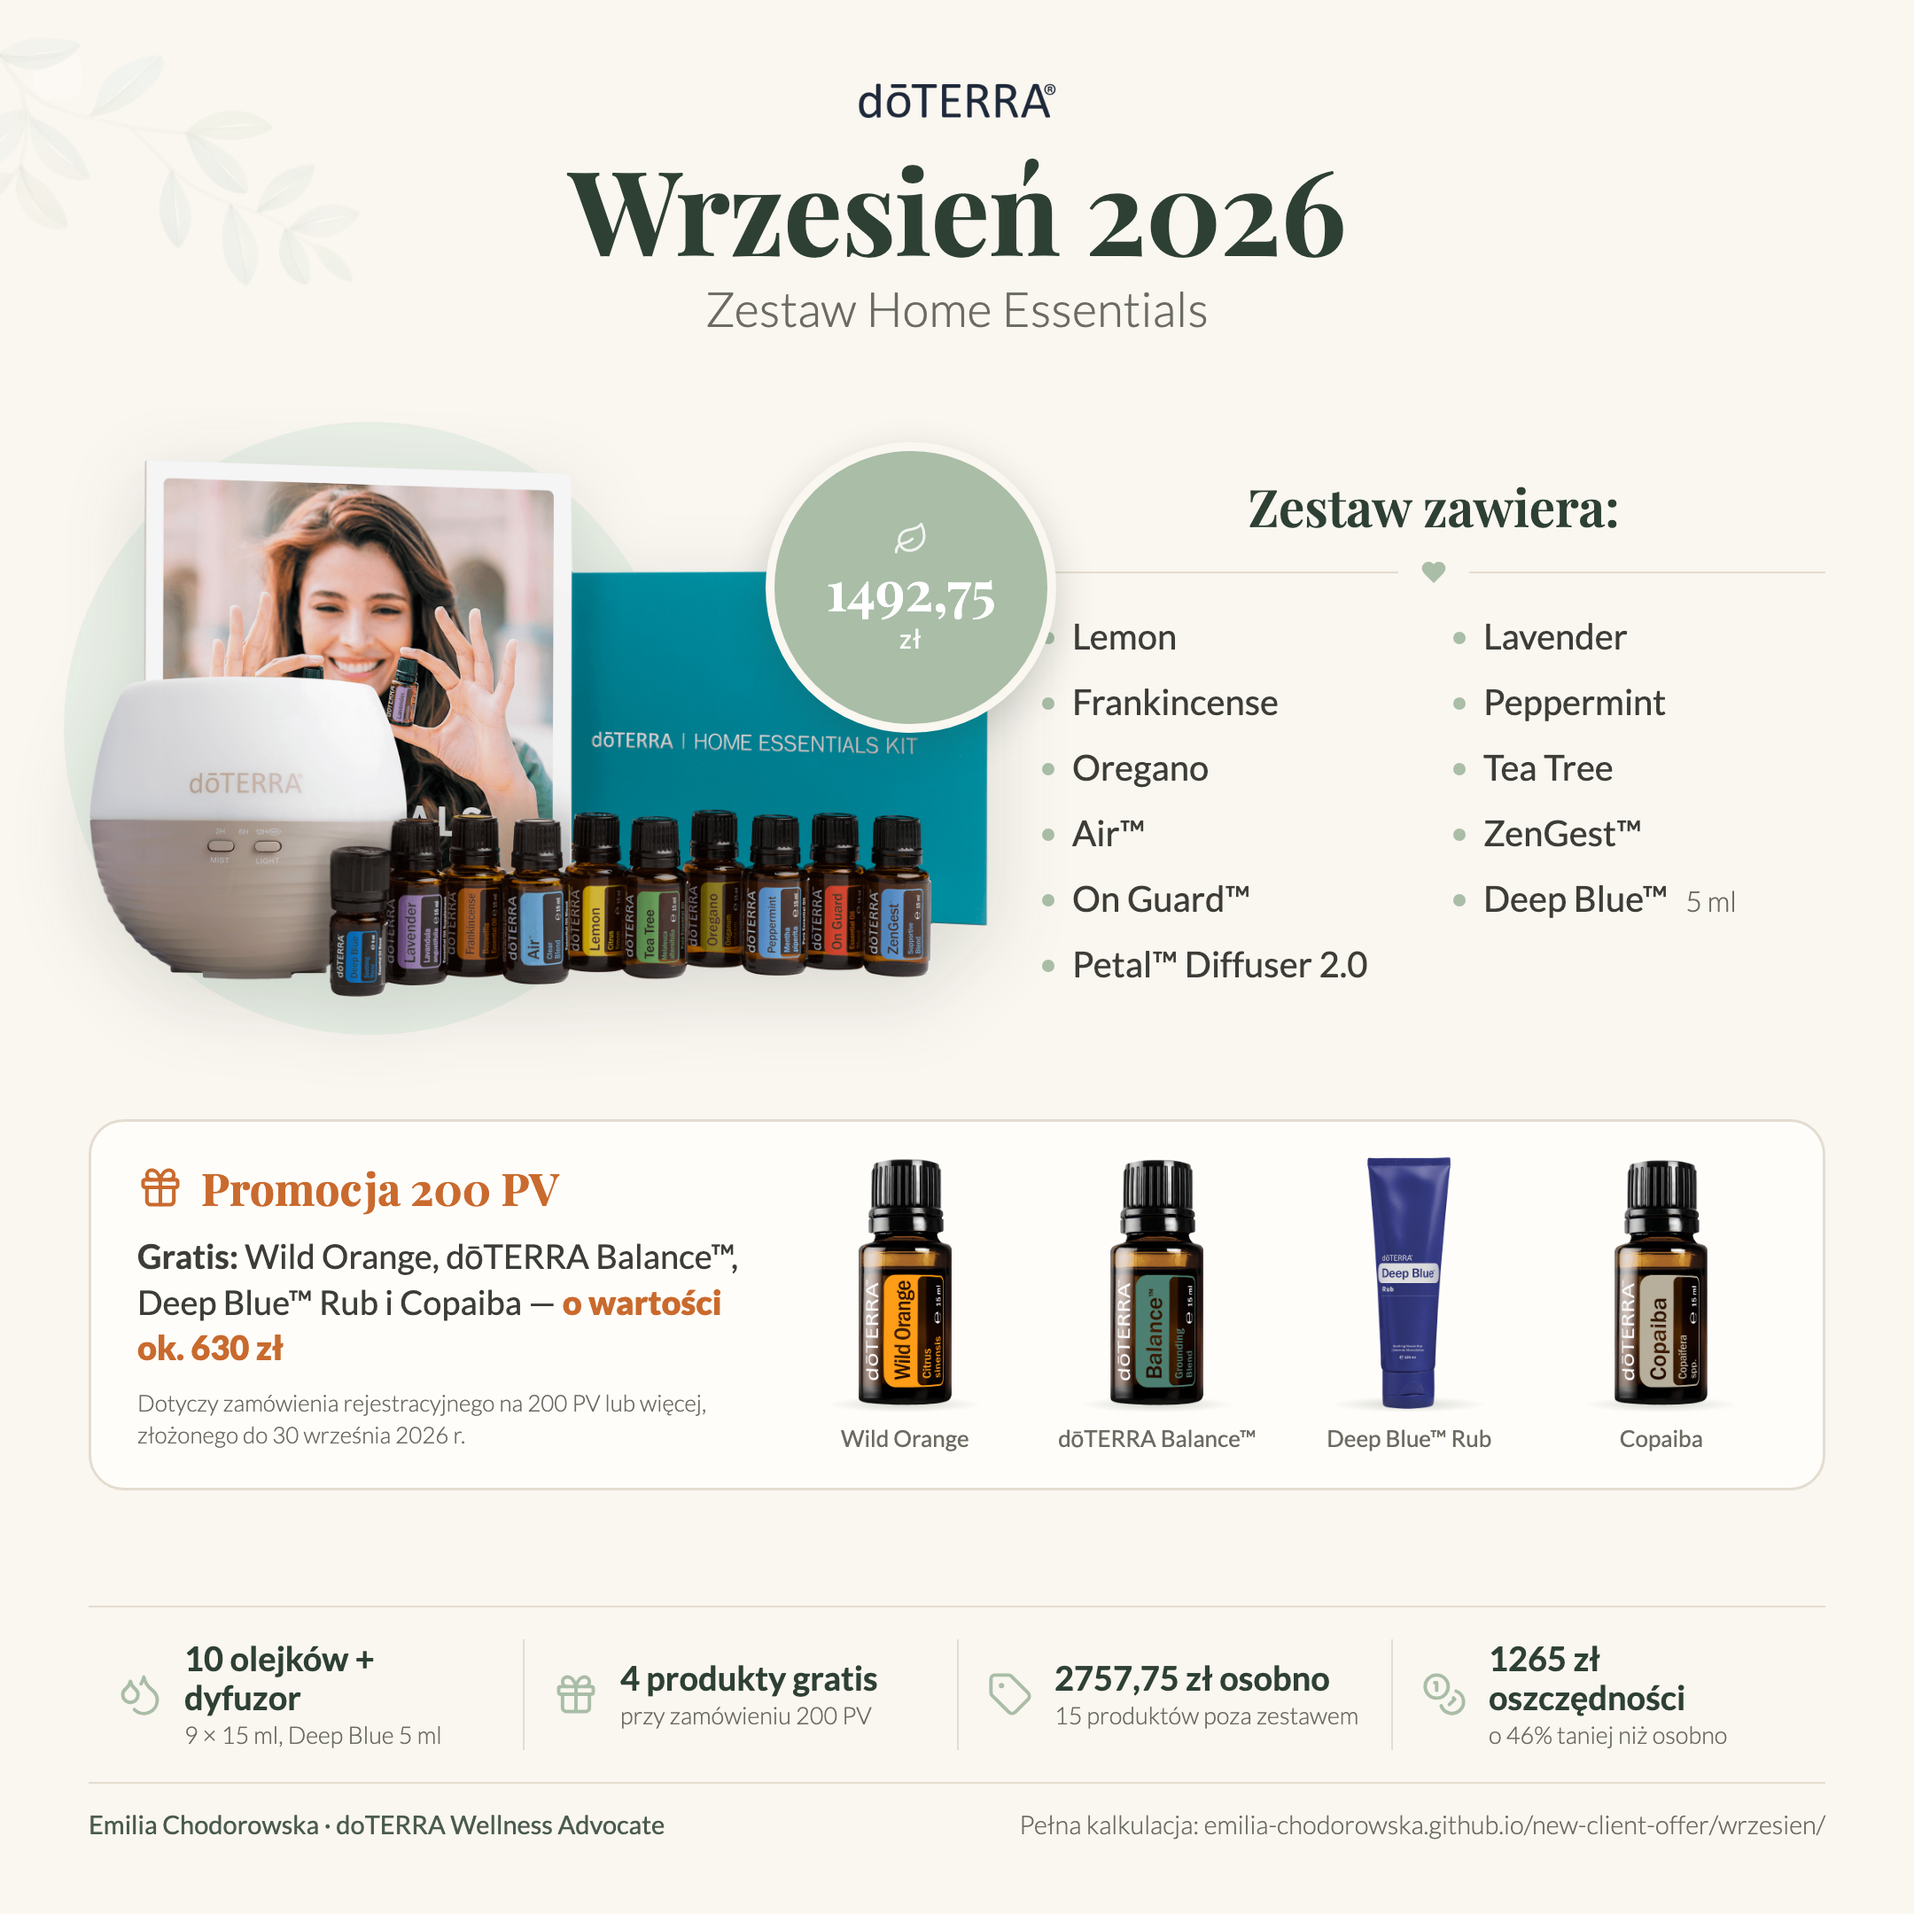
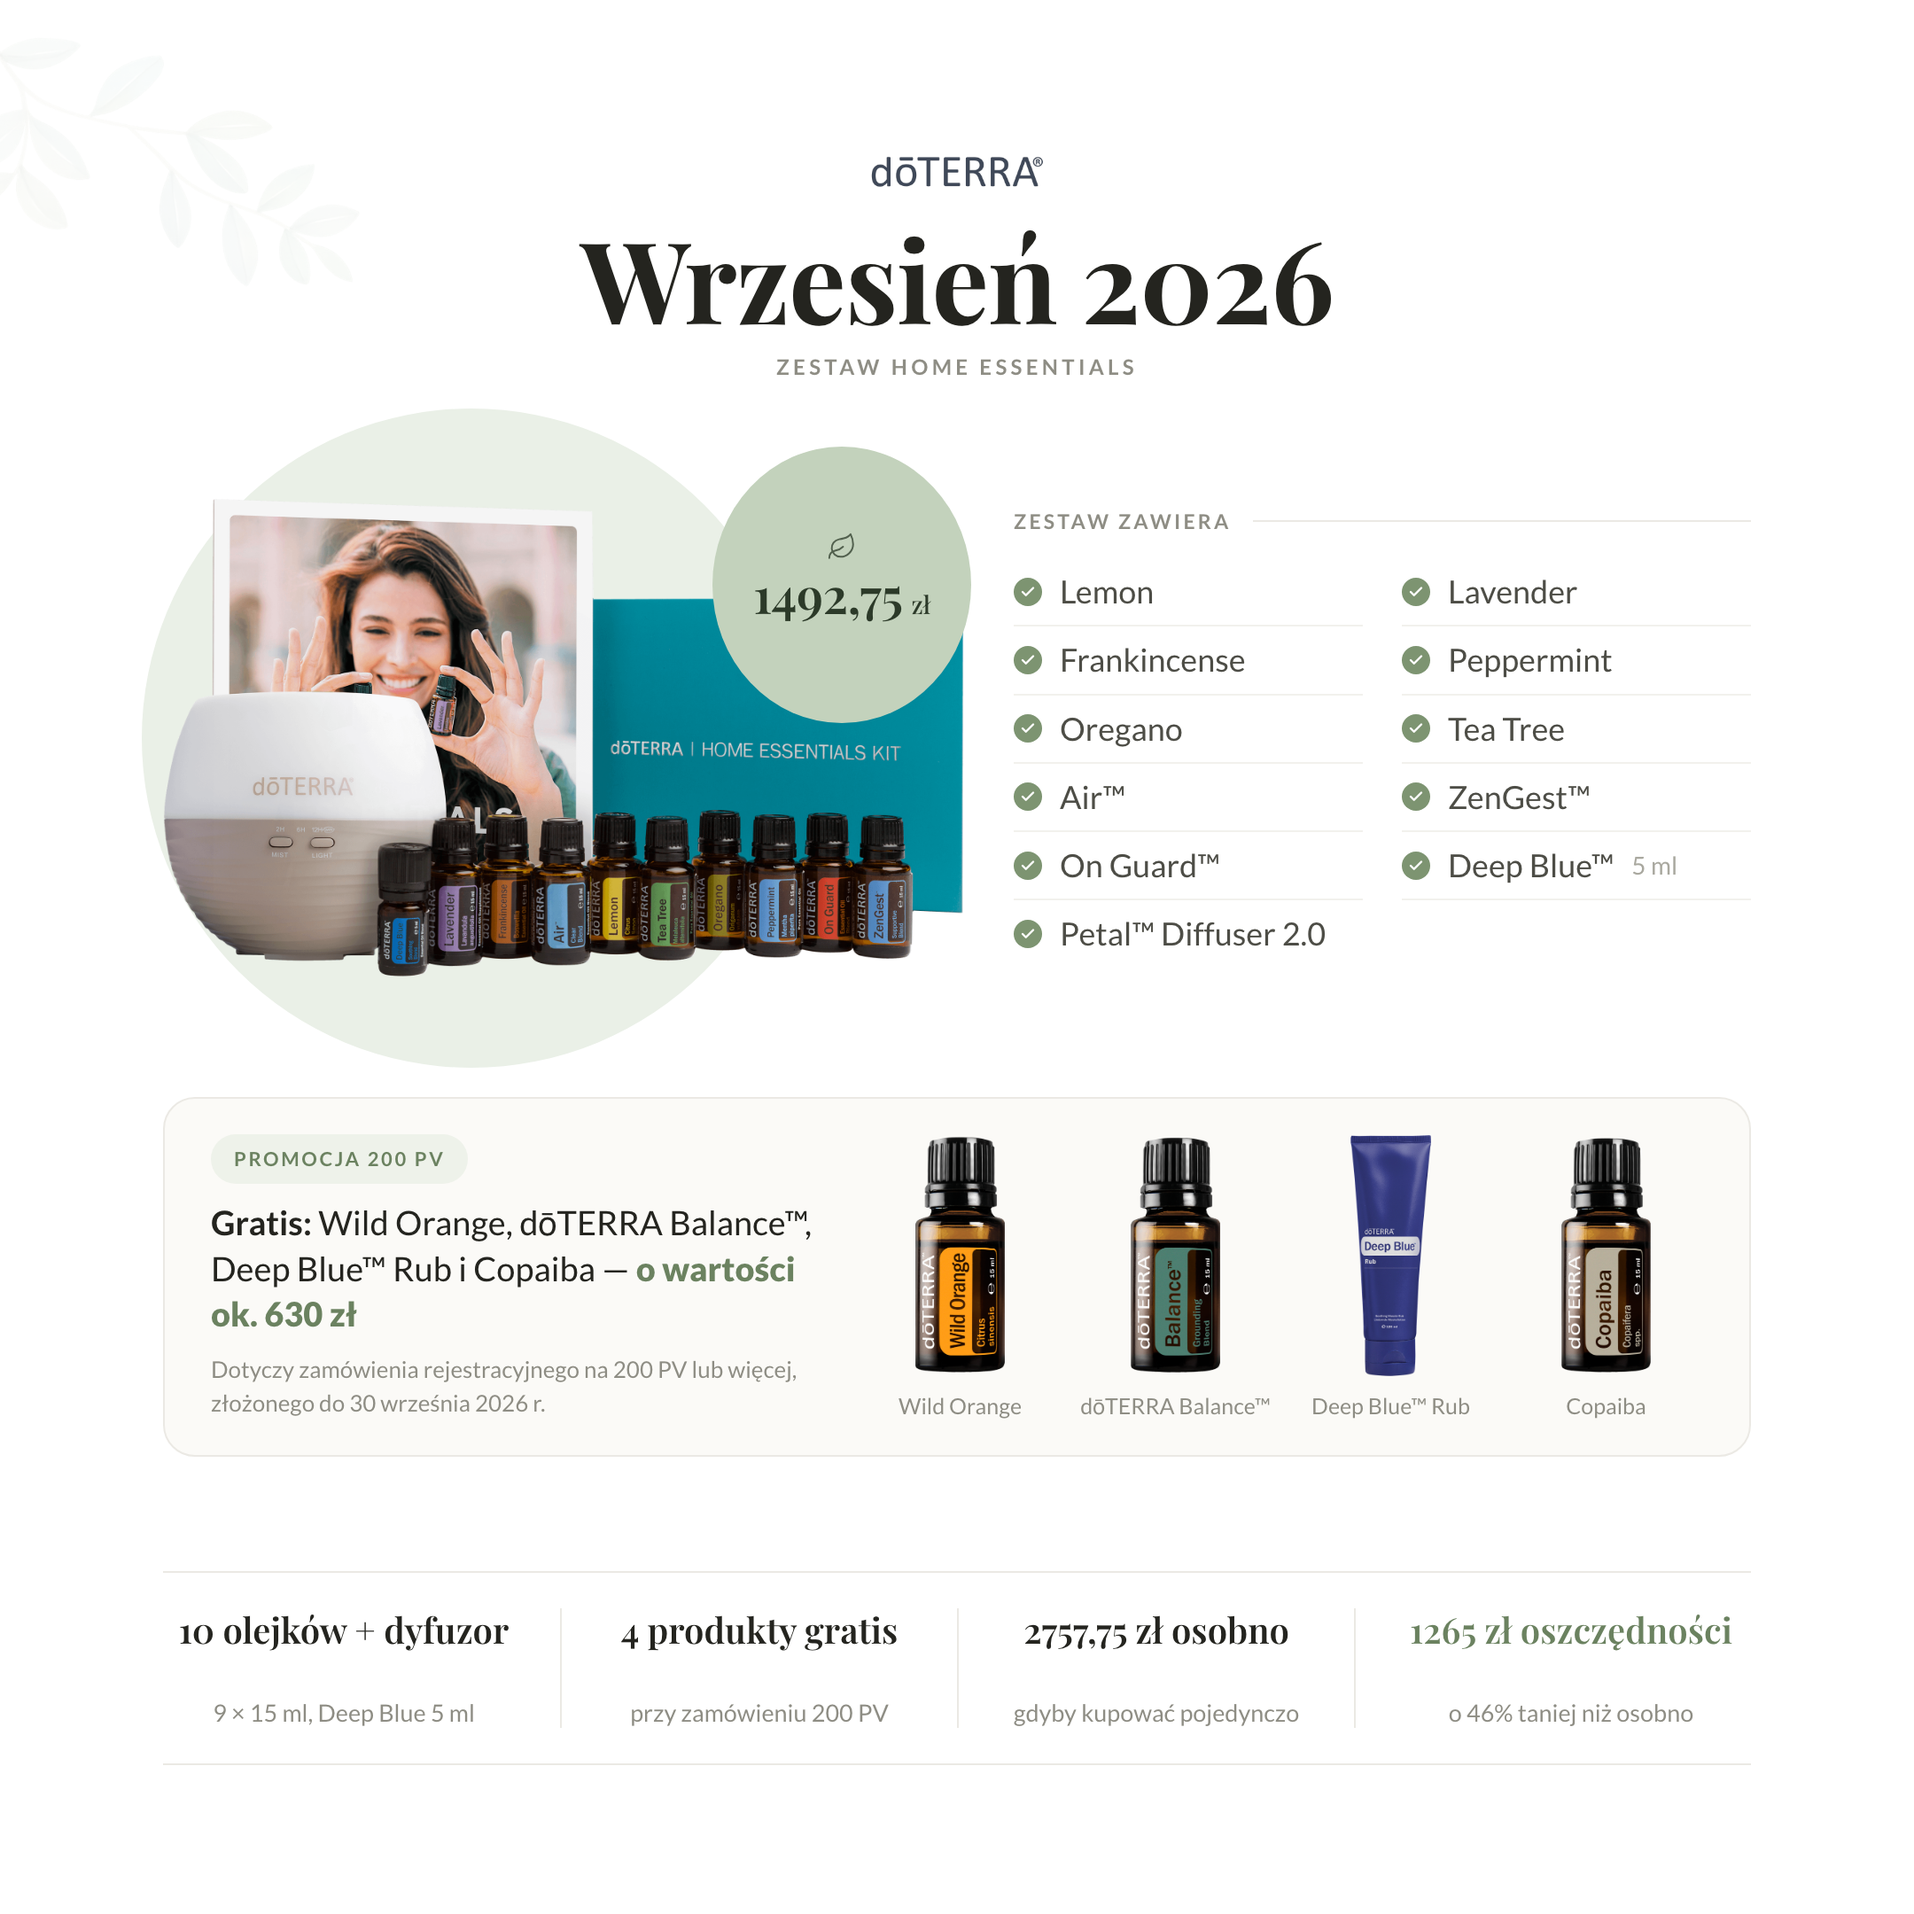
Wrzesien: grafika wg wersji z Design Canvas
- biale tlo, checkmarki zamiast kropek, akcent szalwiowy zamiast pomaranczowego
- naglowki sekcji jako male wersaliki, fakty wysrodkowane serifem
- babel z cena zmniejszony do 146 px — przestal zaslaniac napis na pudelku i naglowek listy
- zrodlo canvasa zachowane w repo jako grafika-wrzesien.dc.html

diff --git a/grafika-wrzesien.dc.html b/grafika-wrzesien.dc.html
@@ -1,33 +1,31 @@
 <!DOCTYPE html>
-<html lang="pl">
+<html>
 <head>
 <meta charset="utf-8">
 <meta name="viewport" content="width=device-width, initial-scale=1">
-<title>Wrzesień 2026 · Home Essentials — grafika</title>
-<link rel="icon" type="image/svg+xml" href="favicon.svg">
+<script src="./support.js"></script>
+</head>
+<body>
+<x-dc>
+<helmet>
 <link rel="preconnect" href="https://fonts.googleapis.com" />
 <link rel="preconnect" href="https://fonts.gstatic.com" crossorigin="crossorigin" />
 <link href="https://fonts.googleapis.com/css2?family=Playfair+Display:wght@500;600;700&family=Lato:wght@300;400;700;900&display=swap" rel="stylesheet" />
 <style>
-body { margin:0; background:#e8e5de; -webkit-font-smoothing:antialiased; }
+  body { margin:0; background:#e8e5de; -webkit-font-smoothing:antialiased; }
   a { color:#6b8260; text-decoration:none; }
   a:hover { color:#5e7d72; }
-  /* #shot — sama karta, bez tla strony, marginesu i cienia (zrodlo PNG) */
-  body.shot { background:transparent; }
-  body.shot > div { padding:0 !important; }
-  body.shot > div > div { box-shadow:none !important; }
 </style>
-</head>
-<body>
+</helmet>
 <div style="display:flex;align-items:flex-start;justify-content:center;padding:40px 20px;font-family:'Lato',sans-serif;color:#24241f">
   <div style="box-sizing:border-box;flex:none;position:relative;width:1080px;height:1080px;background:#ffffff;overflow:hidden;display:flex;flex-direction:column;justify-content:space-between;padding:84px 92px;box-shadow:0 18px 60px rgba(36,36,31,.18)">
 
-    
-      <img src="images/liscie-gora.png" alt="" style="position:absolute;top:-18px;left:-30px;width:330px;opacity:.2;pointer-events:none" />
-    
+    <sc-if value="{{ showLeaves }}" hint-placeholder-val="{{ true }}">
+      <img src="wrzesien/images/liscie-gora.png" alt="" style="position:absolute;top:-18px;left:-30px;width:330px;opacity:.2;pointer-events:none" />
+    </sc-if>
 
     <header style="text-align:center;position:relative;z-index:2">
-      <img src="images/doterralogo.png" alt="dōTERRA" style="height:26px;width:auto;display:block;margin:0 auto 14px;opacity:.85" />
+      <img src="wrzesien/images/doterralogo.png" alt="dōTERRA" style="height:26px;width:auto;display:block;margin:0 auto 14px;opacity:.85" />
       <h1 style="margin:0;font-family:'Playfair Display',serif;font-size:64px;font-weight:700;line-height:1.02;letter-spacing:-.5px;color:#24241f">Wrzesień 2026</h1>
       <div style="margin-top:10px;font-size:12px;font-weight:600;letter-spacing:.18em;text-transform:uppercase;color:#8e8d84">Zestaw Home Essentials</div>
     </header>
@@ -35,10 +33,10 @@ body { margin:0; background:#e8e5de; -webkit-font-smoothing:antialiased; }
     <section style="display:grid;grid-template-columns:452px minmax(0,1fr);gap:28px;align-items:center;position:relative;z-index:2">
       <div style="position:relative;display:flex;align-items:center;min-width:0;max-width:452px">
         <span style="content:'';position:absolute;z-index:0;left:-12px;top:50%;transform:translateY(-50%);width:372px;height:372px;border-radius:50%;background:#eaf0e7"></span>
-        <img src="images/zestaw-olejkow.jpg" alt="Zestaw Home Essentials" style="position:relative;z-index:1;width:100%;display:block" />
-        <div style="position:absolute;z-index:3;top:-26px;right:-4px;width:146px;height:146px;border-radius:50%;background:#c3d2bc;color:#2c3a29;display:flex;flex-direction:column;align-items:center;justify-content:center;gap:4px;padding-bottom:10px">
-          <svg viewBox="0 0 24 24" fill="none" stroke="currentColor" stroke-width="1.4" stroke-linecap="round" stroke-linejoin="round" style="width:17px;height:17px;opacity:.75"><path d="M11 20A7 7 0 0 1 9.8 6.1C15.5 5 17 4.48 19 2c1 2 2 4.18 2 8 0 5.5-4.78 10-10 10Z"></path><path d="M2 21c0-3 1.85-5.36 5.08-6C9.5 14.52 12 13 13 12"></path></svg>
-          <div style="display:flex;align-items:baseline;gap:5px;font-variant-numeric:tabular-nums"><span style="font-family:'Playfair Display',serif;font-size:28px;font-weight:600;letter-spacing:-.01em;line-height:1">1492,75</span><span style="font-family:'Playfair Display',serif;font-size:14px;font-weight:500">zł</span></div>
+        <img src="wrzesien/images/zestaw-olejkow.jpg" alt="Zestaw Home Essentials" style="position:relative;z-index:1;width:100%;display:block" />
+        <div style="position:absolute;z-index:3;top:-26px;right:-4px;width:178px;height:178px;border-radius:50%;background:#c3d2bc;color:#2c3a29;display:flex;flex-direction:column;align-items:center;justify-content:center;gap:6px;padding-bottom:14px">
+          <svg viewBox="0 0 24 24" fill="none" stroke="currentColor" stroke-width="1.4" stroke-linecap="round" stroke-linejoin="round" style="width:22px;height:22px;opacity:.75"><path d="M11 20A7 7 0 0 1 9.8 6.1C15.5 5 17 4.48 19 2c1 2 2 4.18 2 8 0 5.5-4.78 10-10 10Z"></path><path d="M2 21c0-3 1.85-5.36 5.08-6C9.5 14.52 12 13 13 12"></path></svg>
+          <div style="display:flex;align-items:baseline;gap:7px;font-variant-numeric:tabular-nums"><span style="font-family:'Playfair Display',serif;font-size:36px;font-weight:600;letter-spacing:-.01em;line-height:1">1492,75</span><span style="font-family:'Playfair Display',serif;font-size:18px;font-weight:500">zł</span></div>
         </div>
       </div>
 
@@ -70,15 +68,15 @@ body { margin:0; background:#e8e5de; -webkit-font-smoothing:antialiased; }
         <div style="font-size:13px;line-height:1.45;color:#8e8d84">Dotyczy zamówienia rejestracyjnego na 200 PV lub więcej, złożonego do 30 września 2026 r.</div>
       </div>
       <div style="display:grid;grid-template-columns:repeat(4,1fr);gap:12px;align-items:end">
-        <div style="text-align:center"><div style="height:136px;display:flex;align-items:flex-end;justify-content:center"><img src="images/wild-orange.png" alt="" style="max-height:136px;max-width:100%;display:block" /></div><div style="font-size:12.5px;color:#8e8d84;margin-top:9px;line-height:1.2">Wild Orange</div></div>
-        <div style="text-align:center"><div style="height:136px;display:flex;align-items:flex-end;justify-content:center"><img src="images/balance.png" alt="" style="max-height:136px;max-width:100%;display:block" /></div><div style="font-size:12.5px;color:#8e8d84;margin-top:9px;line-height:1.2">dōTERRA Balance&trade;</div></div>
-        <div style="text-align:center"><div style="height:136px;display:flex;align-items:flex-end;justify-content:center"><img src="images/deep-blue-rub.png" alt="" style="max-height:136px;max-width:100%;display:block" /></div><div style="font-size:12.5px;color:#8e8d84;margin-top:9px;line-height:1.2">Deep Blue&trade; Rub</div></div>
-        <div style="text-align:center"><div style="height:136px;display:flex;align-items:flex-end;justify-content:center"><img src="images/copaiba.png" alt="" style="max-height:136px;max-width:100%;display:block" /></div><div style="font-size:12.5px;color:#8e8d84;margin-top:9px;line-height:1.2">Copaiba</div></div>
+        <div style="text-align:center"><div style="height:136px;display:flex;align-items:flex-end;justify-content:center"><img src="wrzesien/images/wild-orange.png" alt="" style="max-height:136px;max-width:100%;display:block" /></div><div style="font-size:12.5px;color:#8e8d84;margin-top:9px;line-height:1.2">Wild Orange</div></div>
+        <div style="text-align:center"><div style="height:136px;display:flex;align-items:flex-end;justify-content:center"><img src="wrzesien/images/balance.png" alt="" style="max-height:136px;max-width:100%;display:block" /></div><div style="font-size:12.5px;color:#8e8d84;margin-top:9px;line-height:1.2">dōTERRA Balance&trade;</div></div>
+        <div style="text-align:center"><div style="height:136px;display:flex;align-items:flex-end;justify-content:center"><img src="wrzesien/images/deep-blue-rub.png" alt="" style="max-height:136px;max-width:100%;display:block" /></div><div style="font-size:12.5px;color:#8e8d84;margin-top:9px;line-height:1.2">Deep Blue&trade; Rub</div></div>
+        <div style="text-align:center"><div style="height:136px;display:flex;align-items:flex-end;justify-content:center"><img src="wrzesien/images/copaiba.png" alt="" style="max-height:136px;max-width:100%;display:block" /></div><div style="font-size:12.5px;color:#8e8d84;margin-top:9px;line-height:1.2">Copaiba</div></div>
       </div>
     </section>
 
     <div style="display:flex;flex-direction:column;gap:12px;position:relative;z-index:2">
-      
+      <sc-if value="{{ showFacts }}" hint-placeholder-val="{{ true }}">
         <section style="display:grid;grid-template-columns:repeat(4,1fr);align-items:stretch;border-top:1px solid #ebe9e4;border-bottom:1px solid #ebe9e4;padding:20px 0">
           <div style="padding:0 20px 0 0;display:flex;flex-direction:column;justify-content:flex-start;text-align:center">
             <div style="font-family:'Playfair Display',serif;font-size:20px;font-weight:600;color:#24241f;line-height:1.2;min-height:48px">10 olejków + dyfuzor</div>
@@ -97,12 +95,21 @@ body { margin:0; background:#e8e5de; -webkit-font-smoothing:antialiased; }
             <div style="font-size:13.5px;color:#8e8d84;line-height:1.3;margin-top:2px">o 46% taniej niż osobno</div>
           </div>
         </section>
-      
+      </sc-if>
     </div>
   </div>
 </div>
-<script>
-  if (location.hash === '#shot') document.body.classList.add('shot');
+
+</x-dc>
+<script type="text/x-dc" data-dc-script data-props="{&quot;$preview&quot;:{&quot;width&quot;:1200,&quot;height&quot;:1200},&quot;showLeaves&quot;:{&quot;editor&quot;:&quot;boolean&quot;,&quot;default&quot;:true,&quot;tsType&quot;:&quot;boolean&quot;,&quot;section&quot;:&quot;Grafika&quot;},&quot;showFacts&quot;:{&quot;editor&quot;:&quot;boolean&quot;,&quot;default&quot;:true,&quot;tsType&quot;:&quot;boolean&quot;,&quot;section&quot;:&quot;Grafika&quot;}}">
+class Component extends DCLogic {
+  renderVals() {
+    return {
+      showLeaves: this.props.showLeaves ?? true,
+      showFacts: this.props.showFacts ?? true
+    };
+  }
+}
 </script>
 </body>
 </html>
